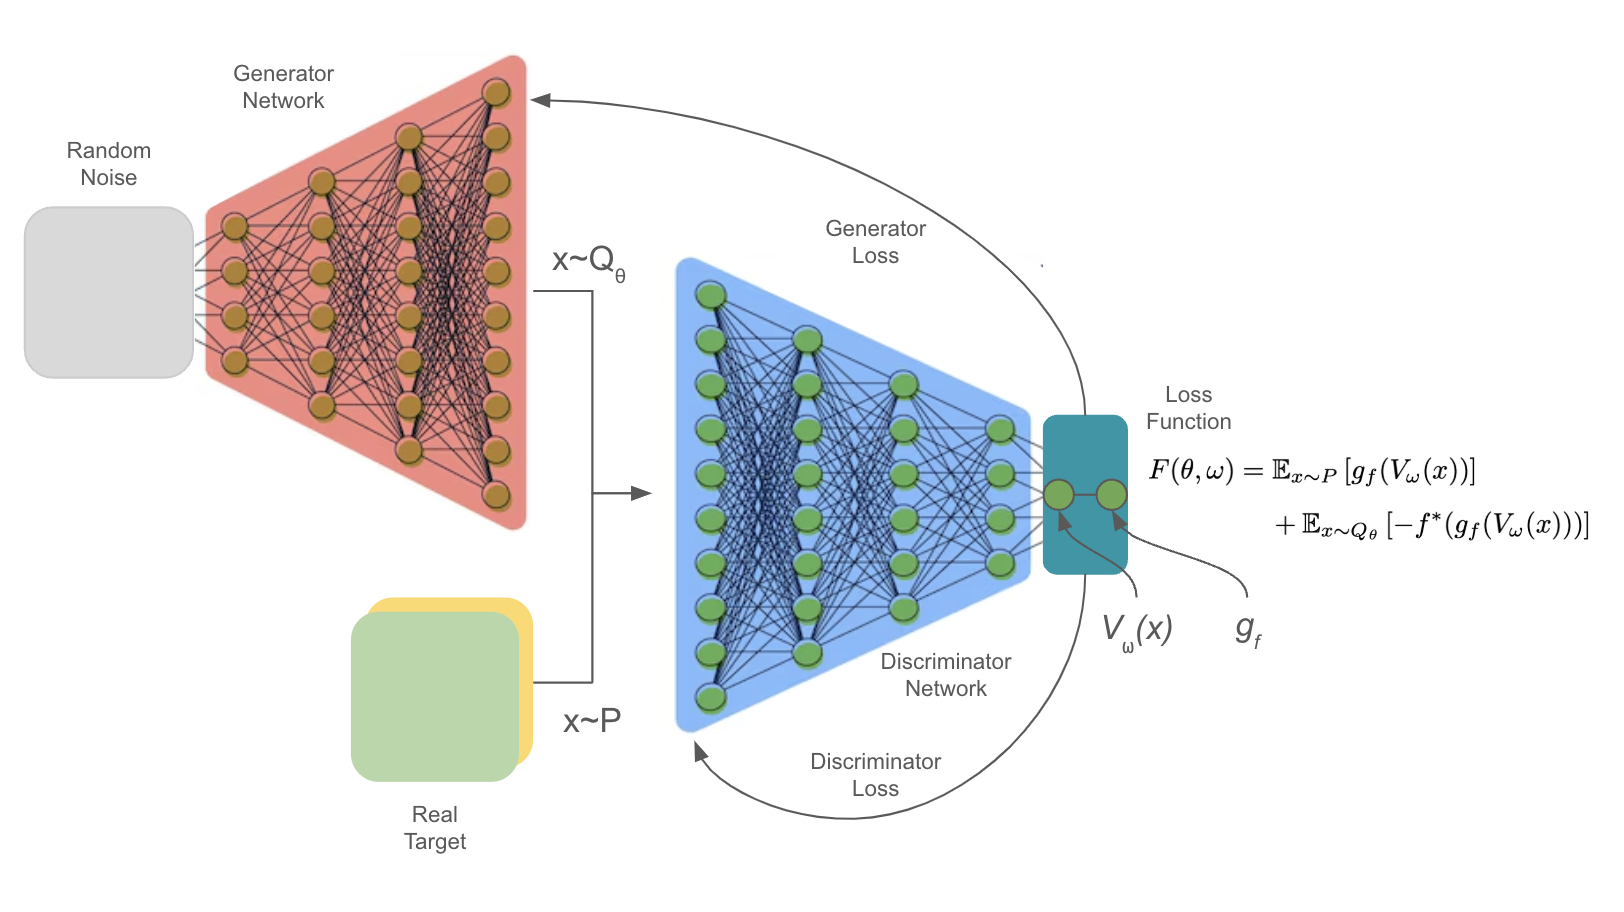
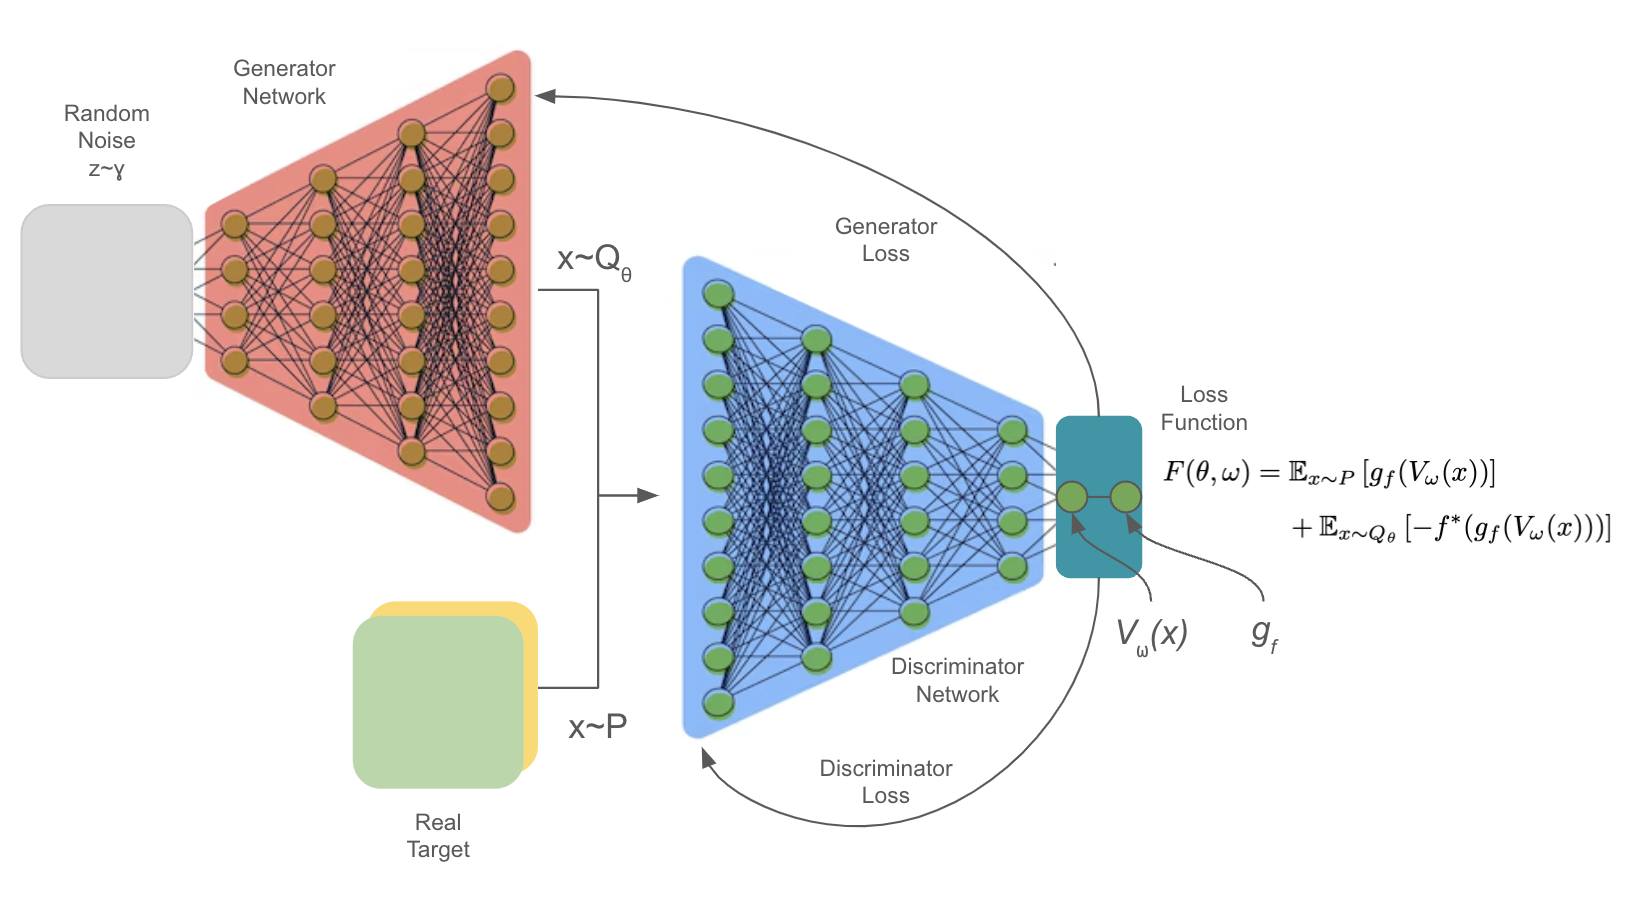
feat: Add fgans

diff --git a/_posts/2025-01-05-F-GANs.md b/_posts/2025-01-05-F-GANs.md
@@ -41,7 +41,8 @@ density output from the generator $Q_{\theta(t-2)}$ which is assumed fixed in th
 We then update the density $Q_{\theta(t-2)} \rightarrow Q_{\theta(t)}$ fixing the updated discriminator
 $g_f(V_{\omega(t-1)}(x))$ to enhance accuracy. Repeating this cycle ultimately guides us to the desired solution.
 
-Since $P$ and $Q$ are unknown through the process but we can sample from them the expected value is estimated as follow:
+Since $P$ and $Q_\theta$ are unknown throughout the process, but we can sample from these distributions,
+the expected value is estimated as follows:
 
 $$
 
@@ -51,6 +52,19 @@ $$
 
 $$
 
- \mathbb{E}_{x \sim Q_\theta} \left[-f^*(g_f(V_\omega(x)))\right] \approx \frac{1}{|B|} \sum_{z \in B} -f^*(g_f(V_\omega(x)))
+\mathbb{E}_{x \sim Q_\theta} \left[-f^*(g_f(V_\omega(x)))\right] \approx \frac{1}{|B|} \sum_{z \in B} -f^*(g_f(V_\omega(x)))
 
 $$
+
+Set $A$ is a subset of samples drawn from the training/original dataset (a minibatch), set $B$ is a minibatch of samples
+in space $R^d$ sampled from $Q_\theta$. 
+It's important to note that sampling from $Q_\theta$ can be achieved by remembering that
+
+$$
+
+F_X(x) = P(X \leq x) = P(\theta(Z) \leq x) = P(Z \leq \theta^{-1}(x)) = F_Z(\theta^{-1}(x))
+
+$$
+
+This implies that the same result can be obtained by sampling from $\gamma$
+and passing the samples through the generator.
